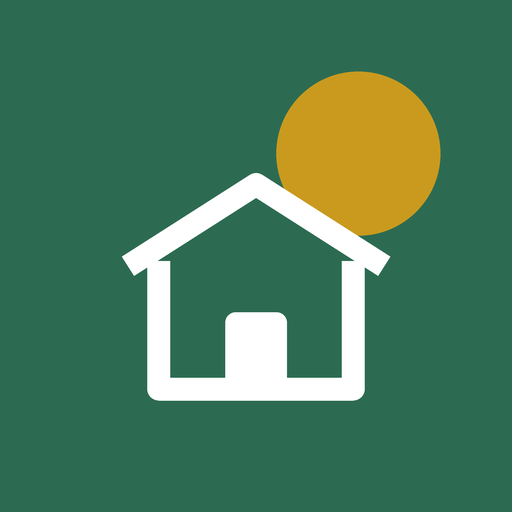
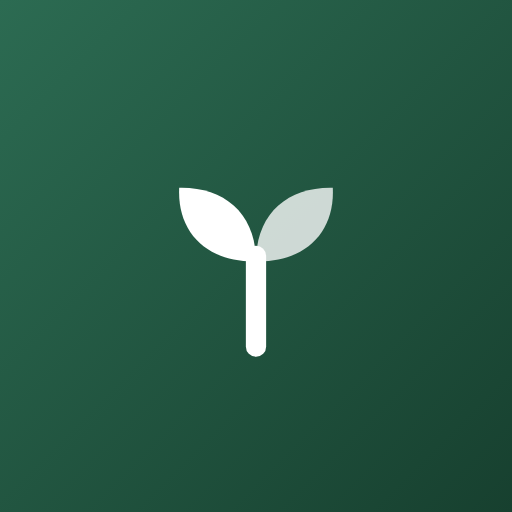
ロゴを双葉に（双子をもとにした形）。ロゴのバー・ログイン画面・ホーム画面のアイコンをそろえる
Claude-Session: https://claude.ai/code/session_017LLvpeJPoVvLBCNchjjsJ3

diff --git a/index.html b/index.html
@@ -10,8 +10,8 @@
 <meta name="apple-mobile-web-app-title" content="わが家">
 <title>わが家の今日</title>
 <link rel="manifest" href="manifest.webmanifest">
-<link rel="apple-touch-icon" href="icons/apple-touch-icon.png">
-<link rel="icon" type="image/png" href="icons/icon-192.png">
+<link rel="apple-touch-icon" href="icons/apple-touch-icon.png?v=2">
+<link rel="icon" type="image/png" href="icons/icon-192.png?v=2">
 <link rel="preconnect" href="https://fonts.googleapis.com">
 <link rel="preconnect" href="https://fonts.gstatic.com" crossorigin>
 <link rel="preload" as="style" href="https://fonts.googleapis.com/css2?family=Zen+Kaku+Gothic+New:wght@400;500;700;900&display=swap" onload="this.onload=null;this.rel='stylesheet'">
@@ -95,8 +95,8 @@ button:focus-visible,input:focus-visible{outline:3px solid #3046A6;outline-offse
 
   <sc-if value="{{needLogin}}" hint-placeholder-val="{{ false }}">
     <div style="position: fixed; inset: 0; z-index: 80; background: #EEF1EC; display: flex; flex-direction: column; justify-content: center; gap: 18px; padding: 32px 28px calc(32px + env(safe-area-inset-bottom)); box-sizing: border-box; max-width: 480px; margin: 0 auto">
-      <div style="width: 72px; height: 72px; border-radius: 22px; background: #2C6B52; display: flex; align-items: center; justify-content: center; animation: pop .5s ease-out both">
-        <svg width="40" height="40" viewBox="0 0 24 24" aria-hidden="true" fill="none" stroke="#FFFFFF" stroke-width="1.9" stroke-linecap="round" stroke-linejoin="round"><path d="M4 11l8-6 8 6v8a1 1 0 0 1-1 1h-4v-5h-6v5H5a1 1 0 0 1-1-1z"></path></svg>
+      <div style="width: 72px; height: 72px; border-radius: 18px; background: linear-gradient(135deg, #2C6B52 0%, #17402F 100%); display: flex; align-items: center; justify-content: center; animation: pop .5s ease-out both">
+        <svg width="46" height="46" viewBox="0 0 24 24" aria-hidden="true"><path d="M12 20.5V12" stroke="#FFFFFF" stroke-width="1.9" stroke-linecap="round" fill="none"></path><path d="M12 12.5C12 8 9 5.5 4.8 5.6 4.6 9.8 7.4 12.6 12 12.5Z" fill="#FFFFFF"></path><path d="M12 12.5C12 8 15 5.5 19.2 5.6 19.4 9.8 16.6 12.6 12 12.5Z" fill="#FFFFFF" opacity=".78"></path></svg>
       </div>
       <h1 style="margin: 0; font-size: 28px; font-weight: 900; line-height: 1.3; animation: rise .5s cubic-bezier(.2,.8,.2,1) .1s both">わが家の今日</h1>
       <p style="margin: 0; font-size: 15px; line-height: 1.8; color: #39433D; animation: rise .5s cubic-bezier(.2,.8,.2,1) .2s both">家族のGoogleアカウントでログインしてください。登録した2人だけが使えます。</p>
@@ -110,7 +110,7 @@ button:focus-visible,input:focus-visible{outline:3px solid #3046A6;outline-offse
   <div class="appbar" style="position: sticky; top: 0; z-index: 20; display: flex; align-items: center; justify-content: space-between; gap: 10px; padding: calc(8px + env(safe-area-inset-top)) 16px 8px; background: rgba(238,241,236,0.92); backdrop-filter: blur(12px); -webkit-backdrop-filter: blur(12px); border-bottom: 1px solid rgba(23,32,27,0.06)">
     <div style="display: flex; align-items: center; gap: 9px">
       <span class="logomark" aria-hidden="true" style="width: 34px; height: 34px; border-radius: 11px; background: linear-gradient(135deg, #2C6B52 0%, #17402F 100%); display: flex; align-items: center; justify-content: center; box-shadow: 0 2px 6px rgba(23,64,47,0.3)">
-        <svg width="22" height="22" viewBox="0 0 24 24" fill="none" stroke="#FFFFFF" stroke-width="1.9" stroke-linecap="round" stroke-linejoin="round"><path d="M4 11.5L12 5l8 6.5"></path><path d="M8 18a4 4 0 0 1 8 0"></path><path d="M4.5 18h15"></path><path d="M12 10.5v1.6M7.6 12.6l1 1M16.4 12.6l-1 1"></path></svg>
+        <svg width="24" height="24" viewBox="0 0 24 24"><path d="M12 20.5V12" stroke="#FFFFFF" stroke-width="1.9" stroke-linecap="round" fill="none"></path><path d="M12 12.5C12 8 9 5.5 4.8 5.6 4.6 9.8 7.4 12.6 12 12.5Z" fill="#FFFFFF"></path><path d="M12 12.5C12 8 15 5.5 19.2 5.6 19.4 9.8 16.6 12.6 12 12.5Z" fill="#FFFFFF" opacity=".78"></path></svg>
       </span>
       <h1 class="wordmark" aria-label="わが家の今日" style="margin: 0; font-size: 18px; font-weight: 900; letter-spacing: .3em; color: #17201B">WAGAYA</h1>
     </div>
@@ -1016,7 +1016,7 @@ button:focus-visible,input:focus-visible{outline:3px solid #3046A6;outline-offse
   </section>
 </div>
 </template>
-<script src="config.js?v=21"></script>
-<script src="app.js?v=21"></script>
+<script src="config.js?v=22"></script>
+<script src="app.js?v=22"></script>
 </body>
 </html>

diff --git a/sw.js b/sw.js
@@ -2,9 +2,9 @@
  * 開く時は手元の画面をすぐ出し、裏で新しい版を取っておく（次に開いた時に新しい版になる）。
  * index.html と同じ版の app.js / config.js だけを使う（?v= の番号で合わせる。混ざると画面が空になるため）。
  * 版を上げる時：index.html の ?v= と、下の VERSION をそろえて上げる。 */
-var VERSION = '21';
+var VERSION = '22';
 var CACHE = 'wagaya-v' + VERSION;
-var SHELL = ['./', 'index.html', 'app.js?v=' + VERSION, 'config.js?v=' + VERSION, 'manifest.webmanifest', 'icons/icon-192.png', 'icons/apple-touch-icon.png'];
+var SHELL = ['./', 'index.html', 'app.js?v=' + VERSION, 'config.js?v=' + VERSION, 'manifest.webmanifest', 'icons/icon-192.png?v=2', 'icons/apple-touch-icon.png?v=2'];
 self.addEventListener('install', function (e) {
   e.waitUntil(caches.open(CACHE).then(function (c) {
     return c.addAll(SHELL.map(function (u) { return new Request(u, { cache: 'reload' }); }));

diff --git a/app.js b/app.js
@@ -6,7 +6,7 @@
   'use strict';
 
   var CFG = window.APP_CONFIG || {};
-  var APP_VERSION = '21';
+  var APP_VERSION = '22';
   var API_EXPECTED = 9;   // GAS の API_VERSION と同じ番号
   var DEMO = /[?&]demo=1/.test(location.search) || !!CFG.demo;
   /* 見本モードは別の名前で保存する（本物のアプリの保存を上書きしない） */

diff --git a/CLAUDE.md b/CLAUDE.md
@@ -17,7 +17,7 @@
   - 「設定」：クライアントID、人1・人2の呼び名（とと・まま）・メール・色、家族の色、子どもの呼び方・誕生日、時間帯、献立がない日の文言、カレンダーID、写真フォルダID。誰の欄は呼び名でもパパ・ママでも通じる
   - 「画面」：キー（photos/hero/flow/decide/deadline/topics/diary/week/shop/weekend/plan/news）ごとに見出し・みんなのタブ・人のタブ・順番・夜の順番・旅行中・見る人（空＝2人、人1/人2/呼び名＝その人がログインした時だけ）・下のタブ（アプリ下の切り替え。既定は 今日／ふたりで／ごはん／予定／ニュース。同じ名前のセクションが同じ画面に出る。中身のないタブは出さない。旅行中は話題を最初のタブへ）
   - 最初のタブは「ホーム」（シート上の名前は「今日」）：見える全部のセクションを出し、長い一覧は数件にしぼって「すべて見る」（今日の流れ8・買い物8・期限4・話題3・日記3・お出かけ3・相談2・ニュース5。ホームにあるものはその場で広げ、他はそのタブへ移る）
-  - ロゴのバー（マーク＋WAGAYA）はどのタブでも一番上に貼りつく。ホームは写真が見出し（写真の上に日付・天気・あいさつ、下に数字の札・人の切り替え・申し送りの入口・並びの帯）。写真を出さない時（人のタブなど）は色の見出し
+  - ロゴは双葉（1本の芽から2枚の葉＝双子。深い緑、Apple風では明るい緑）。ロゴのバー（マーク＋WAGAYA）はどのタブでも一番上に貼りつく。ホームは写真が見出し（写真の上に日付・天気・あいさつ、下に数字の札・人の切り替え・申し送りの入口・並びの帯）。写真を出さない時（人のタブなど）は色の見出し
   - 見た目は3つ（アカウントのシートで端末ごとに選ぶ。localStorage `homeStyle`）：a＝写真が主役（既定）、b＝タイル（写真・天気・今日の担当・つぎの担当・あなたの番・新着をタイルで並べ、写真と「つぎの担当」のセクションは出さない）、c＝Apple風（aの並びに、#top の data-theme="apple" の着せかえCSSを全画面にかける。index.html の「着せかえ：Apple風」。インラインのstyleを属性セレクタと !important で上書きするので、style の書き方を変えたら効き目を確かめる）
   - 上の見出し（ファーストビュー）：時間帯で色とあいさつが変わる（朝・日中・夜・旅行中）。今日の担当の進み・あなたの番・新着・旅行までの日数を出す
   - 天気：設定「天気の場所」（地名 緯度,経度）、旅行の期間は「旅行先の天気の場所」。GASが Open-Meteo（登録なし）から取り、1時間まとめて置く
